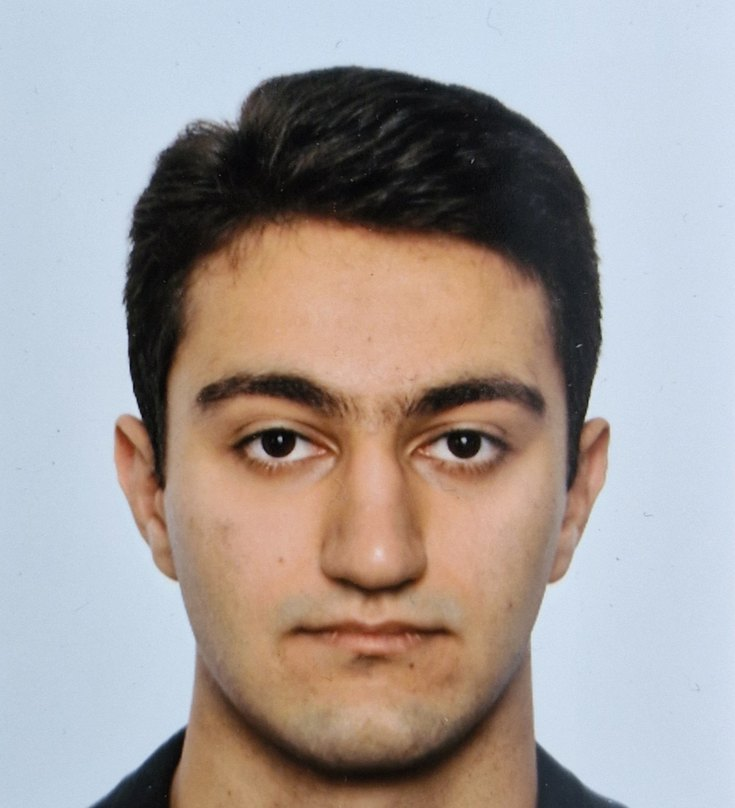
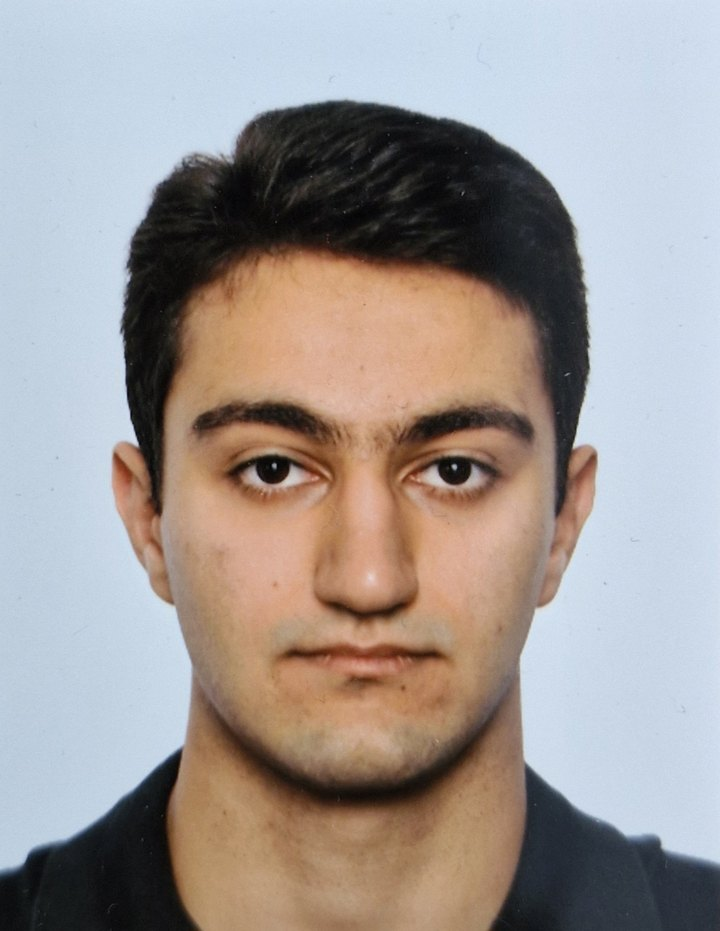
version 5 modif 1

diff --git a/index.html b/index.html
@@ -97,15 +97,24 @@
         </div>
         <div class="page-content">
           <section class="welcome-intro">
-            <div class="photo-slot" style="border: 0; overflow: hidden">
+            <div
+              class="photo-slot"
+              style="
+                border: 0;
+                overflow: hidden;
+                aspect-ratio: 720 / 931;
+                width: 100%;
+                max-width: 240px;
+              "
+            >
               <img
                 src="photo.jpg"
                 alt="Portrait of Amirhossein Forghani"
                 style="
+                  display: block;
                   width: 100%;
                   height: 100%;
-                  object-fit: cover;
-                  object-position: center top;
+                  object-fit: contain;
                   border-radius: 4px;
                 "
               />
